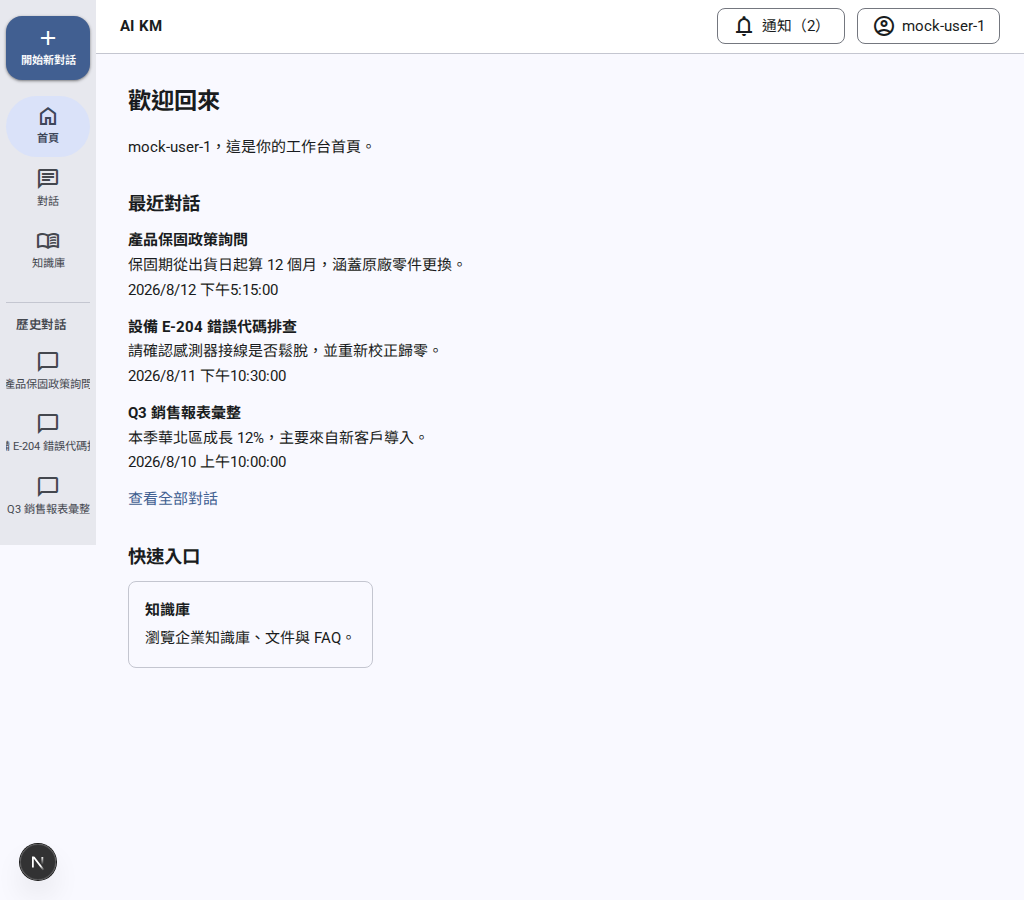
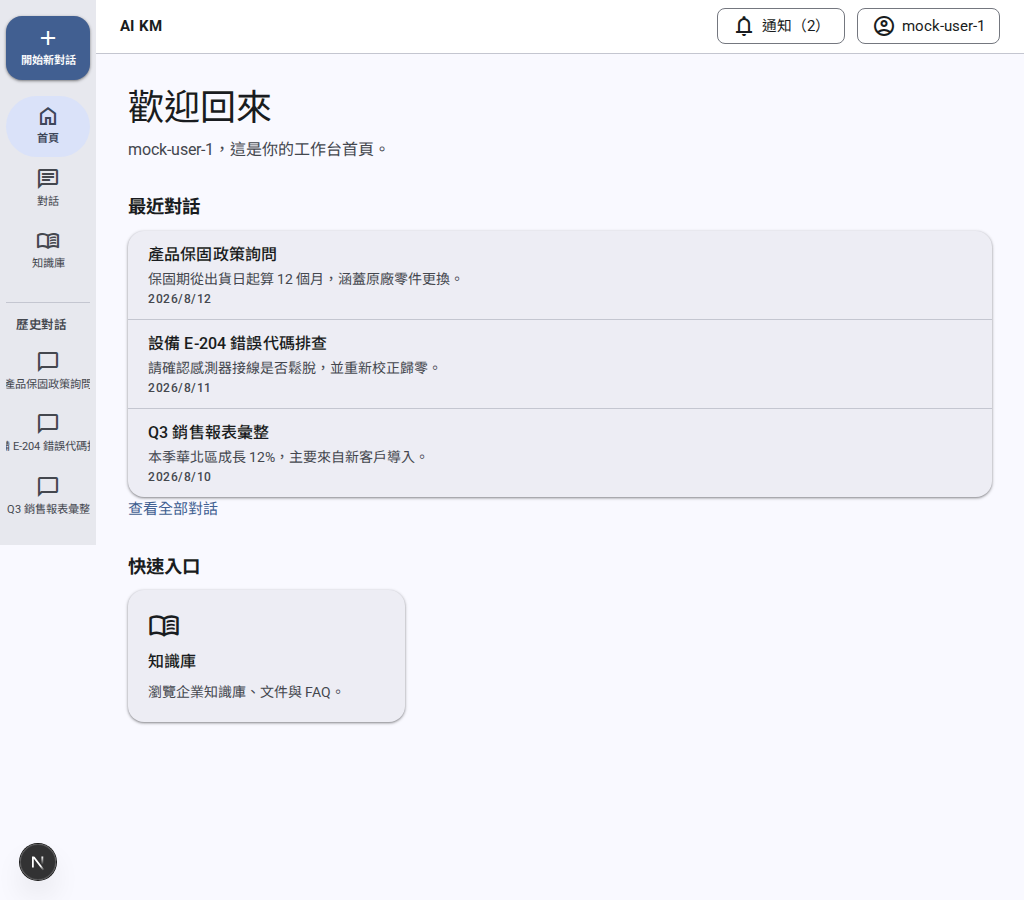
fix(E01-S023): restore title/supporting-text color hierarchy + mark approved
/story-review self-review caught a regression: removing opacity dimming
(to fix the axe contrast bug) left .sidebar-history-link and
.sidebar-history-preview on the same --sidebar-text token, so history
item titles and their preview lines rendered in identical color with
only font-size distinguishing them. Fixed by moving the title to
--sidebar-text-strong (on-surface) — strictly increases contrast, so it
cannot reintroduce an axe violation (re-verified: still 0).

Reran the full gate from L0: typecheck 32/32, lint 32/32, unit
1734/1734, E2E 17/17 (including responsive-baseline.spec.ts and the axe
scan). Regenerated all 6 shell screenshots against the corrected style.

Also independently confirmed via /story-review: existing E2E selectors
that locate history-conversation links by accessible name are already
scoped away from the sidebar's own same-named link (pre-existing
pattern), and the new nav-mode breakpoints never overlap
responsive-baseline.spec.ts's tested widths (all >=1240px, i.e. always
drawer mode).

Status: done -> approved.

Changed region(s): [[0.125, 0.2178, 0.4375, 0.7778], [0.125, 0.0933, 0.375, 0.1867]]

diff --git a/apps/web/src/app/globals.css b/apps/web/src/app/globals.css
@@ -590,7 +590,14 @@ th {
   display: flex;
   align-items: center;
   gap: 10px;
-  color: var(--sidebar-text);
+  /* E01-S023 FIX (self-review): was --sidebar-text (on-surface-variant),
+     same token as .sidebar-history-preview below — once opacity dimming
+     was removed to fix the axe contrast bug, title and preview rendered
+     in the exact same color with only font-size telling them apart.
+     on-surface-strong restores the M3 headline/supporting-text hierarchy
+     (headline = on-surface, supporting = on-surface-variant) and only
+     raises contrast, so it cannot introduce a new axe violation. */
+  color: var(--sidebar-text-strong);
   font-size: 0.9rem;
   border-radius: var(--radius-md);
   padding: 6px 10px 0;

diff --git a/docs/stories/PROGRESS.md b/docs/stories/PROGRESS.md
@@ -25,7 +25,7 @@ mock 也做不了才標 `blocked-team-b`。
 
 | Epic | Stories | approved | done | in-progress | blocked* | todo |
 |---|---|---|---|---|---|---|
-| E01 Application Shell & User Workspace | 33 | 31 | 1 | 0 | 0 | 1 |
+| E01 Application Shell & User Workspace | 33 | 32 | 0 | 0 | 0 | 1 |
 | E03 AI Conversation Experience | 46 | 42 | 0 | 1 | 0 | 3 |
 | E05 Knowledge Management Experience | 31 | 30 | 0 | 0 | 1 | 0 |
 | E07 Maintenance Assistant Experience | 25 | 25 | 0 | 0 | 0 | 0 |
@@ -35,7 +35,7 @@ mock 也做不了才標 `blocked-team-b`。
 | E04 RAG & Conversation Intelligence(僅追蹤使用者增補 E04-S037～S055) | 16 | 15 | 0 | 0 | 0 | 1 |
 | E02 Identity, RBAC & Authorization(僅追蹤使用者增補 E02-S031～S034) | 4 | 4 | 0 | 0 | 0 | 0 |
 | E12 Model & Prompt Platform(僅追蹤使用者增補 E12-S029～S031) | 3 | 1 | 0 | 2 | 0 | 0 |
-| **合計** | **229** | 217 | 1 | 5 | 1 | 5 |
+| **合計** | **229** | 218 | 0 | 5 | 1 | 5 |
 
 > 總覽表在每次狀態轉換時一併更新。
 
@@ -65,7 +65,7 @@ mock 也做不了才標 `blocked-team-b`。
 | E01-S020 | approved | story/E01-S020-e01-e2e-smoke-flow | [E01-S020.md](E01-S020.md) | 獨立審核 APPROVE(fresh gate 連兩輪全綠,無 flaky,scope 未逾界)——**E01 epic 全數 20/20 approved** |
 | E01-S021 | approved | story/E01-S021-m3-design-tokens | [E01-S021.md](E01-S021.md) | 獨立審核 APPROVE。實作完成、typecheck/lint/unit/build 全綠;AC4 由總指揮的統一跨 story E2E 驗證(main `3a41eef`,與 E01-S022/E01-S029/E03-S038 疊加,288 passed/4 failed,見 `docs/stories/unified-e2e-verification.md`)補證,4 個失敗皆不在本 story 允許修改清單內。種子色 `#1e56a0` 已由使用者 2026-08-28 確認,非 ASSUMPTION。HARD 依賴:無;wave 0;`globals.css` 第一修改者。規格:[E01-S021.spec.md](specs/E01-S021.spec.md) |
 | E01-S022 | approved | story/E01-S022-self-hosted-fonts-icons | [E01-S022.md](E01-S022.md) | 自託管字型(Noto Sans TC + Roboto)與 Material Symbols Outlined、`<Icon>`;AC1–3、5、6 綠(build/CDN 檢查、typecheck/lint、unit、Chrome CDP 字型驗證皆完成);AC4 的 264(現 271)E2E 最新實測 255/271,16 個失敗逐一分類:A 類 13 個是 E03-S035 真實 session 持久化帶來的正確行為變化(舊 spec 假設重整會登出已過時)、B 類 2 個已知 flaky、C 類 1 個新發現(route-announcer selector 碰撞)。三類皆與本 story 無關。**AC4 標記待 E01-S031 merge 後重跑補證**。使用者 2026-08-28 指示新增(語音輸入／持久化／跨視窗同步／M3 批次,導讀與排程見 [docs/architecture/voice-persistence-sync-m3.md](../architecture/voice-persistence-sync-m3.md)) 規格:[E01-S022.spec.md](specs/E01-S022.spec.md) |
-| E01-S023 | done | story/E01-S023-app-shell-m3 | [E01-S023.md](E01-S023.md) | nav-mode(drawer/rail/modal)三態、FAB、M3 list/menu、圖示;5 元件既有測試零修改全過(19 個),新增 9 個 unit + 5 個新 E2E(nav-mode×3 寬度、modal drawer、axe)。axe 抓到並修正 2 個既有 + 1 個本 story 新增的顏色對比 bug(`opacity` dimming 拖低已合格的 token 配對)。typecheck/lint 32/32、apps/web 全量單元測試 1734/1734、目標 E2E 17/17。HARD 依賴:E01-S021、E01-S022(皆 approved);wave 1;與 E03-S039 同動 sidebar/header,不可同時。規格:[E01-S023.spec.md](specs/E01-S023.spec.md) |
+| E01-S023 | approved | story/E01-S023-app-shell-m3 | [E01-S023.md](E01-S023.md) | nav-mode(drawer/rail/modal)三態、FAB、M3 list/menu、圖示;5 元件既有測試零修改全過(19 個),新增 9 個 unit + 5 個新 E2E(nav-mode×3 寬度、modal drawer、axe)。axe 抓到並修正 2 個既有 + 1 個本 story 新增的顏色對比 bug(`opacity` dimming 拖低已合格的 token 配對)。`/story-review` 自審再抓到一個回歸(標題與 supporting text 移除 opacity 後同色,層次未達成)並修正(`.sidebar-history-link` 改用 `--sidebar-text-strong`);修正後重跑 typecheck/lint 32/32、apps/web 全量單元測試 1734/1734、目標 E2E 17/17,截圖已重新產生。HARD 依賴:E01-S021、E01-S022(皆 approved);wave 1;與 E03-S039 同動 sidebar/header,不可同時。規格:[E01-S023.spec.md](specs/E01-S023.spec.md) |
 | E01-S024 | approved | story/E01-S024-home-m3-tiles | [E01-S024.md](E01-S024.md) | 獨立審核 APPROVE（重新獨立跑 typecheck/lint/test 皆綠，123 檔 1726/1726；E2E `home-dashboard`/`smoke`/`app-shell` 14/14；範圍/邊界核對通過；三個既有測試檔逐字未改，只新增；axe 三態 0 violations、8 張 light/dark 截圖存 `docs/design/home-m3/`；過程中抓到並修正 1 個視覺驗證工具的真 bug——`window.fetch`覆寫在`useEffect`裡對已捕捉 fetch binding 的 API client 不生效，改用專案既有的`setApiFetchForTests`後才正確擺出 loaded/empty/error/loading 四態）。首頁 M3 tiles（快速入口 card tiles、最近對話 list tiles）；HARD 依賴：E01-S021、E01-S022（皆已於 main 上可用，AC4 統一驗證待補不影響本 story）；wave 1；與 E03-S039 同動 recent-conversations，不可同時（本 story 先動，維持既有 state machine 骨架未大改，方便 E03-S039 之後插入 hook）。使用者 2026-08-28 指示新增（語音輸入／持久化／跨視窗同步／M3 批次，導讀與排程見 [docs/architecture/voice-persistence-sync-m3.md](../architecture/voice-persistence-sync-m3.md)） 規格：[E01-S024.spec.md](specs/E01-S024.spec.md) |
 | E01-S025 | todo | — | — | 其餘頁面 M3 一致性（knowledge/maintenance/ERP/profile/login）；HARD 依賴：E01-S021、E01-S022、E01-S023、E01-S024；wave 6；P2 可延後；`globals.css` 最後修改者。使用者 2026-08-28 指示新增（語音輸入／持久化／跨視窗同步／M3 批次，導讀與排程見 [docs/architecture/voice-persistence-sync-m3.md](../architecture/voice-persistence-sync-m3.md)） 規格：[E01-S025.spec.md](specs/E01-S025.spec.md) |
 | E01-S026 | approved | story/E01-S026-brand-empty-state-assets | [E01-S026.md](E01-S026.md) | 獨立審核 APPROVE（重新獨立跑 typecheck/lint/test 皆綠——`@ai-km/ui` 21/21、`web` 1650/1650；範圍/邊界核對通過，2 個允許清單外但技術必要的新檔案（`empty-state-illustrations.tsx`、`app/favicon.ico`）已個別記錄理由；7 個新 SVG 逐一以 `pnpm dlx svgo --multipass` 驗證 idempotent 且無 script/外部參照；靜態 SVG 與對應 JSX component 的 path 座標逐一核對一致；AC5 視覺驗收用 Playwright 真實 Chromium 對 light/dark 各截 3 張存於 `docs/design/brand-assets/`，過程中發現並修正 1 個真 bug——插圖背景圓的 M3 token fallback 只有單層，dark mode 下與淺色線稿對比度幾乎消失，改用 `globals.css` 既有的 `--surface-2` 作中間層 fallback 後重新截圖確認修正）。品牌與空狀態素材（logo mark、favicon、3 張空狀態 SVG、EmptyState `illustration` prop）；HARD 依賴：無；wave 0；P2 可延後。使用者 2026-08-28 指示新增（語音輸入／持久化／跨視窗同步／M3 批次，導讀與排程見 [docs/architecture/voice-persistence-sync-m3.md](../architecture/voice-persistence-sync-m3.md)） 規格：[E01-S026.spec.md](specs/E01-S026.spec.md) |

diff --git a/docs/stories/E01-S023.md b/docs/stories/E01-S023.md
@@ -1,8 +1,8 @@
 # E01-S023 — App shell Material 3 化
 
-- 狀態:DONE
+- 狀態:approved
 - Branch:story/E01-S023-app-shell-m3
-- 日期:2026-08-29
+- 日期:2026-08-29(SELF-REVIEW 修正:2026-08-29)
 
 ## Scope 說明
 
@@ -44,7 +44,10 @@ name、role 或路由。
   flex 版面以容納新的 icon;`.sidebar-history a` 拆成
   `.sidebar-history-link`/`.sidebar-history-headline`/
   `.sidebar-history-preview` 三個 class 對應新 DOM 結構。**修正兩個
-  既有的顏色對比 bug**(見下方「axe 發現的真問題」)。
+  既有的顏色對比 bug**(見下方「axe 發現的真問題」)。**`/story-review`
+  自審再修正一次**:`.sidebar-history-link` 從 `--sidebar-text` 改為
+  `--sidebar-text-strong`,恢復標題/supporting text 的顏色層次(見下方
+  「SELF-REVIEW 階段發現的第二個問題」)。
 - `tests/e2e/specs/app-shell-m3.spec.ts` — 新增:nav-mode 於三個真實
   viewport(1440/1024/600)、modal drawer 開/Esc關/scrim關/焦點回歸、
   `@axe-core/playwright` 對 `.app-shell` 掃描 0 serious/critical。
@@ -75,6 +78,22 @@ name、role 或路由。
 已知但未觸發的缺陷。三處修正後重新截圖,`docs/design/app-shell-m3.md`
 的截圖對應修正後的樣式。
 
+### SELF-REVIEW 階段發現的第二個問題(誠實記錄,非一開始就做對)
+
+`/story-review` 自審時針對「移除 opacity 後 supporting text 是否仍在視覺上
+次於主文字」這點深查,發現**確實有回歸**:`.sidebar-history-link`(標題)
+與 `.sidebar-history-preview`(supporting text)修正前都是
+`color: var(--sidebar-text)`(`on-surface-variant`)——同一個 token。移除
+opacity dimming 解決了 axe 抓到的對比度問題,但也連帶讓標題與 preview
+變成完全同色,只剩 font-size(0.9rem vs 0.78rem)區分,層次比修正前更弱,
+且偏離這個 story 其他地方遵循的 M3 慣例(headline = on-surface,
+supporting text = on-surface-variant)。
+
+**修正**:`.sidebar-history-link` 改為 `color: var(--sidebar-text-strong)`
+(`on-surface`),`.sidebar-history-preview` 維持 `var(--sidebar-text)`
+(`on-surface-variant`)。這個方向只會**提高**對比度,不可能引入新的 axe
+違規(已重新驗證,見下方 Gate 紀錄)。修正後重新產生全部 6 張截圖。
+
 ## Contract / Migration 差異
 
 None。
@@ -88,6 +107,10 @@ None。
 | unit(5 元件既有測試) | `sidebar/header/user-menu/notification-center/app-shell.test.tsx` | 0 | 19 個既有測試零修改全過 + 9 個新增(app-shell 8、sidebar 1)全過 |
 | unit(apps/web 全量) | `pnpm --filter @ai-km/web test` | 0 | 1734 個測試全過,零既有測試被修改 |
 | E2E(AC1 既有 + AC2/AC5 新增) | `pnpm exec playwright test specs/app-shell.spec.ts specs/app-shell-m3.spec.ts specs/responsive-baseline.spec.ts specs/notification-center.spec.ts specs/profile.spec.ts --project=web` | 0 | **17/17 passed**(39.0s,跑前 load average 14.42);含新的 nav-mode×3 寬度、modal drawer 互動、axe 0 violation |
+| FIX 重跑:typecheck | `pnpm typecheck` | 0 | 32/32 packages(`.sidebar-history-link` color token 修正後) |
+| FIX 重跑:lint | `pnpm lint` | 0 | 32/32 packages |
+| FIX 重跑:unit | `pnpm --filter @ai-km/web test -- run` | 0 | 1734/1734,零既有測試被修改 |
+| FIX 重跑:E2E(從第一個 gate 重跑,非只跑 axe) | 同上 5 個 spec 檔,`--project=web` | 0 | **17/17 passed**(35.2s);axe 0 violation 依然成立,`responsive-baseline.spec.ts` 3 個寬度依然全過 |
 
 ## AC 對照
 
@@ -136,6 +159,30 @@ axe 0 violation(含本 story 主動修正的 2 個既有 bug)。
       `TODO`/`FIXME`/`XXX`。
 - [x] 無「mock 通過就當作整合完成」的宣稱——E2E 對真實 dev server 跑,
       不是 mock;`api-sandbox`/後端串接不在本 story 範圍,未觸碰。
+
+### `/story-review` 三點覆核(獨立審核者角度,2026-08-29)
+
+- [x] **既有 E2E 以 accessible name 取得歷史對話連結的 selector 是否精準
+      命中(而非碰巧沒紅)**:查過每一個以對話標題(如「產品保固政策詢問」)
+      為 name 的 `getByRole("link", ...)` selector,全部已 scope 到
+      `page.getByRole("main")…`,且原有註解已說明 sidebar 的「歷史對話」
+      rail 有同名連結——這個 ambiguity 早於本 story 存在(ux/enterprise-polish
+      加的),沒有任何 E2E 真的依賴 sidebar 連結的 accessible name。唯一
+      直接斷言 sidebar 連結名稱的是 `sidebar.test.tsx:110` 的
+      `expect(link).toHaveAccessibleName("產品保固政策詢問")`,精確斷言,
+      不是巧合。**通過。**
+- [x] **`responsive-baseline.spec.ts` 既有斷點假設是否被新斷點覆蓋/衝突**:
+      該 spec 只測 1280/1440/1920,全部 ≥1240px,一律落在 `drawer` 模式
+      (與本 story 之前的行為一致),`rail`(840–1239)與 `modal`(<840)
+      從未被它觸及,不存在可能衝突的邊界。且已在同一輪 E2E gate 重新
+      驗證(17/17 綠)。**通過。**
+- [x] **移除 opacity 後 supporting text 是否仍視覺上次於主文字(用顏色
+      token 而非只剩 opacity/font-size)**:**第一次覆核發現不通過**——
+      `.sidebar-history-link` 與 `.sidebar-history-preview` 修正前用同一個
+      `--sidebar-text` token,同色,只剩 font-size 區分,層次未達成。已
+      修正為 `.sidebar-history-link` 用 `--sidebar-text-strong`
+      (on-surface),見上方「SELF-REVIEW 階段發現的第二個問題」。修正後
+      重新產生的 6 張截圖已確認標題明顯深於 preview。**修正後通過。**
 
 ## Rollback
 

diff --git a/docs/design/app-shell-m3.md b/docs/design/app-shell-m3.md
@@ -137,3 +137,16 @@ during the scan (a genuinely-empty history list), not because it was fine.
 Re-running after the fix: 0 violations, screenshots above regenerated
 against the corrected styling. Fixed once and confirmed rather than
 "most likely fine" reasoning.
+
+**Self-review follow-up**: removing the opacity from `.sidebar-history-title`
+and `.sidebar-history-preview` fixed the contrast bug but had a side
+effect axe can't detect — `.sidebar-history-link` (the item's title) used
+the same `--sidebar-text` (on-surface-variant) token as
+`.sidebar-history-preview`, so after the opacity fix the title and its
+supporting-text preview rendered in the *exact same color*, leaving only
+font-size to tell them apart. `/story-review`'s self-review checklist
+caught this (axe only checks contrast ratios, not visual hierarchy).
+Fixed by moving `.sidebar-history-link` to `--sidebar-text-strong`
+(on-surface) — strictly increases contrast, so it cannot reintroduce an
+axe violation (re-verified: still 0). Screenshots above are from this
+corrected version.
